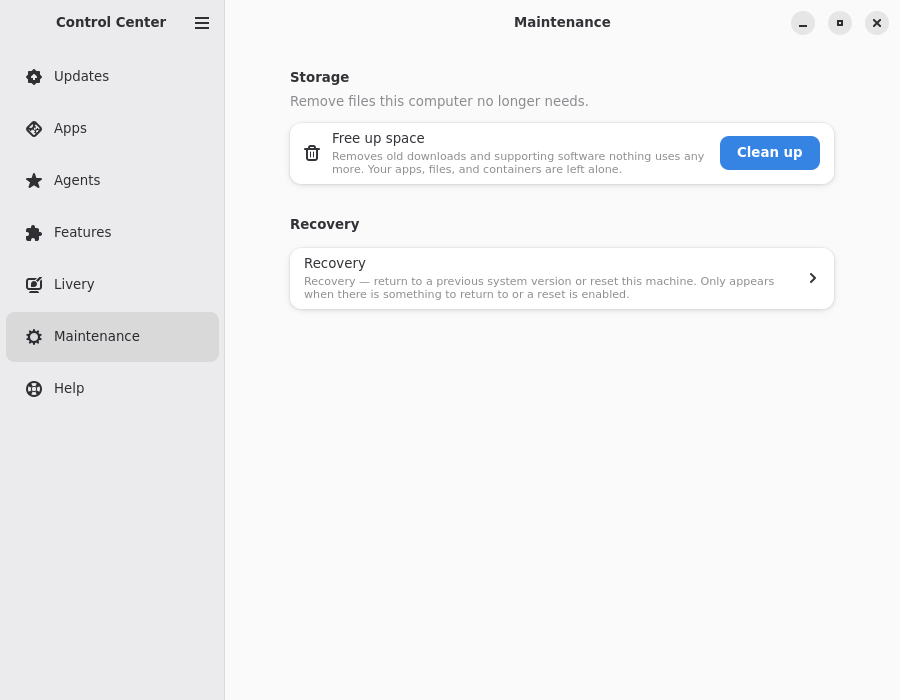
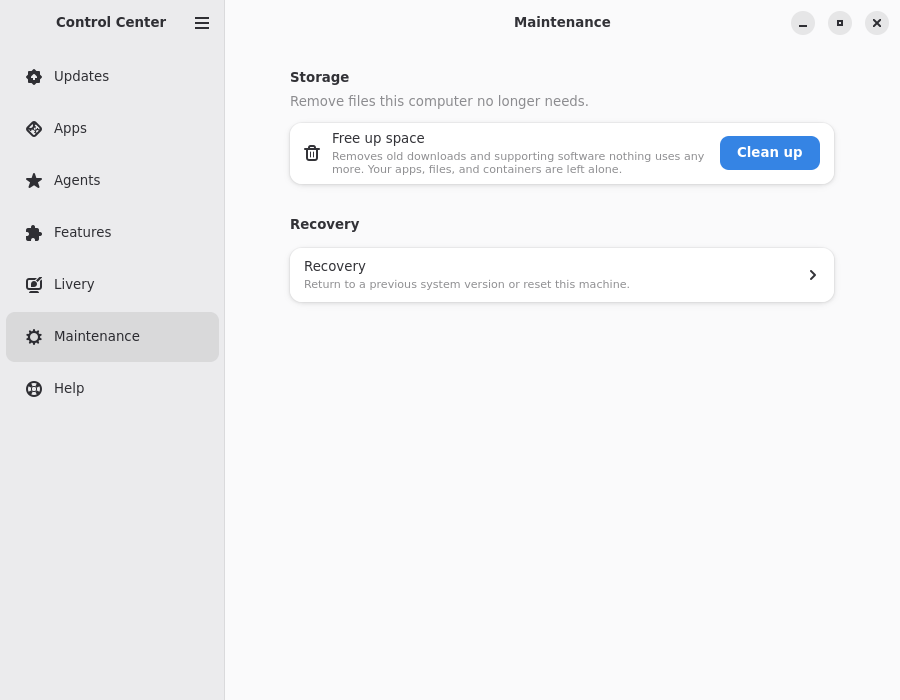
fix(views): apply audit findings for callbacks, accessibility, and copy
- Route Powerwash and Factory Reset dialogs through recoveryDialogs
- Keep Contribute button insensitive while session runs and reset gate on exit/error
- Add accessible labels for Flatpak uninstall and Recovery back buttons
- Set UseMarkup(false) on bundle rows before subtitle
- Update Livery switch titles and subtitles to match headings and use 'color'
- Capitalize 'Keyboard Shortcuts' and 'Main Menu' in update shell
- Shorten Recovery entry subtitle and remove leaked rendering logic
- Delete unused devtools WSL functions and PublishedVersion.Running
- Add unit tests for printerapp digestPart and defaultUnitDir

Assisted-by: Gemini 3.8 Flash via GitHub Copilot

Changed region(s): [[0.3422, 0.36, 0.84, 0.45]]

diff --git a/internal/views/pageview/livery_test.go b/internal/views/pageview/livery_test.go
@@ -36,6 +36,9 @@ func TestUnknownSelectionFallsBackToTheDefault(t *testing.T) {
 // Files mark is shared by every surface GNOME draws that application on, and
 // a subtitle mentioning only the dock would understate what the switch does.
 func TestAppGridTextCoversGNOMEAndPlasmaAvailability(t *testing.T) {
+	if got := LiveryAppGridRow().Title; got != "Customize the App Launcher Icon" {
+		t.Errorf("app-grid title = %q, want %q", got, "Customize the App Launcher Icon")
+	}
 	subtitle := strings.ToLower(LiveryAppGridRow().Subtitle)
 	for _, desktop := range []string{"gnome", "kickoff", "kde plasma"} {
 		if !strings.Contains(subtitle, desktop) {
@@ -51,6 +54,15 @@ func TestAppGridTextCoversGNOMEAndPlasmaAvailability(t *testing.T) {
 }
 
 func TestDockRowNamesItsFullReach(t *testing.T) {
+	if got := LiveryPanelRow().Title; got != "Customize the Top Bar Icon" {
+		t.Errorf("panel title = %q, want %q", got, "Customize the Top Bar Icon")
+	}
+	if strings.Contains(LiveryPanelRow().Subtitle, "colour") {
+		t.Errorf("panel subtitle contains British spelling 'colour': %q", LiveryPanelRow().Subtitle)
+	}
+	if strings.Contains(LiveryDockRow().Subtitle, "colour") {
+		t.Errorf("dock subtitle contains British spelling 'colour': %q", LiveryDockRow().Subtitle)
+	}
 	subtitle := strings.ToLower(LiveryDockRow().Subtitle)
 	for _, surface := range []string{"dock", "app grid", "window switcher"} {
 		if !strings.Contains(subtitle, surface) {

diff --git a/internal/views/pageview/versions_test.go b/internal/views/pageview/versions_test.go
@@ -38,7 +38,7 @@ func TestPublishedVersionsListsOneRowPerDayOfTheRunningStream(t *testing.T) {
 	want := []PublishedVersion{
 		{Row: Row{Title: "22 September 2026", Subtitle: "Published as stable-20260922"}, Day: "20260922"},
 		{Row: Row{Title: "15 September 2026", Subtitle: "Published as stable-20260915"}, Day: "20260915"},
-		{Row: Row{Title: "8 September 2026", Subtitle: "Running now · Published as stable-20260908"}, Day: "20260908", Running: true},
+		{Row: Row{Title: "8 September 2026", Subtitle: "Running now · Published as stable-20260908"}, Day: "20260908"},
 		{Row: Row{Title: "1 September 2026", Subtitle: "Your previous version · Published as stable-20260901"}, Day: "20260901"},
 	}
 	if len(got) != len(want) {
@@ -54,7 +54,7 @@ func TestPublishedVersionsListsOneRowPerDayOfTheRunningStream(t *testing.T) {
 func TestPublishedVersionsMarksNothingForAnUnreadableVersion(t *testing.T) {
 	builds := registrytags.Builds([]string{"stable-20260908"}, time.Time{})
 	got := PublishedVersions(builds, "stable", "", "not-a-build")
-	if len(got) != 1 || got[0].Subtitle != "Published as stable-20260908" || got[0].Day != "20260908" || got[0].Running {
+	if len(got) != 1 || got[0].Subtitle != "Published as stable-20260908" || got[0].Day != "20260908" {
 		t.Errorf("PublishedVersions() = %#v, want one unmarked row", got)
 	}
 }

diff --git a/internal/views/pageview/livery.go b/internal/views/pageview/livery.go
@@ -200,7 +200,7 @@ func LiveryIDForIndex(index uint) string {
 // The same honesty the Files row owes, for the same reason.
 func LiveryAppGridRow() Row {
 	return Row{
-		Title:    "Customize the App Grid Icon",
+		Title:    "Customize the App Launcher Icon",
 		Subtitle: "Replaces the Show Applications glyph on GNOME or the Kickoff icon on KDE Plasma",
 	}
 }
@@ -218,7 +218,7 @@ func LiveryAppGridGroupDescription(available bool) string {
 // Custom Command Menu extension never shows the section, so there is no
 // unavailable variant.
 func LiveryPanelRow() Row {
-	return Row{Title: "Customize the Panel Icon", Subtitle: "Replaces the top-bar menu button, in your theme's colour"}
+	return Row{Title: "Customize the Top Bar Icon", Subtitle: "Replaces the top-bar menu button, in your theme's color"}
 }
 
 // LiveryDockRow is the dock section's switch row text.
@@ -230,7 +230,7 @@ func LiveryPanelRow() Row {
 func LiveryDockRow() Row {
 	return Row{
 		Title:    "Customize the Files Icon",
-		Subtitle: "Replaces the Files icon in full colour — on the dock, in the app grid, and in the window switcher",
+		Subtitle: "Replaces the Files icon in full color — on the dock, in the app grid, and in the window switcher",
 	}
 }
 

diff --git a/internal/views/reset.go b/internal/views/reset.go
@@ -104,14 +104,13 @@ func (uh *UserHome) onPowerwashClicked(button *gtk.Button, row *adw.ActionRow) {
 	dialog.AddResponse("confirm", "Remove Everything")
 	dialog.SetResponseAppearance("confirm", adw.ResponseDestructiveValue)
 
-	responseCb := func(_ adw.AlertDialog, response string) {
+	uh.recoveryDialogs.connect(dialog, func(response string) {
 		if response != "confirm" {
 			uh.powerwashGate.Reset()
 			return
 		}
 		uh.runPowerwash(button, row)
-	}
-	dialog.ConnectResponse(&responseCb)
+	})
 	dialog.Present(&uh.recoveryPrefsPage.Widget)
 }
 
@@ -166,14 +165,13 @@ func (uh *UserHome) onFactoryResetClicked(button *gtk.Button, row *adw.ActionRow
 	dialog.AddResponse("confirm", "Factory Reset")
 	dialog.SetResponseAppearance("confirm", adw.ResponseDestructiveValue)
 
-	responseCb := func(_ adw.AlertDialog, response string) {
+	uh.recoveryDialogs.connect(dialog, func(response string) {
 		if response != "confirm" {
 			uh.factoryResetGate.Reset()
 			return
 		}
 		uh.runFactoryReset(button, row)
-	}
-	dialog.ConnectResponse(&responseCb)
+	})
 	dialog.Present(&uh.recoveryPrefsPage.Widget)
 }
 

diff --git a/internal/printerapp/printerapp_test.go b/internal/printerapp/printerapp_test.go
@@ -468,6 +468,38 @@ func TestApplyOverridesRejectsBadInput(t *testing.T) {
 	}
 }
 
+func TestDigestPartExtractsDigest(t *testing.T) {
+	tests := []struct {
+		image string
+		want  string
+	}{
+		{"ghcr.io/org/repo@sha256:abcdef1234567890", "sha256:abcdef1234567890"},
+		{"ghcr.io/org/repo:v1.0.0", ""},
+		{"ghcr.io/org/repo", ""},
+		{"", ""},
+	}
+	for _, tc := range tests {
+		if got := digestPart(tc.image); got != tc.want {
+			t.Errorf("digestPart(%q) = %q, want %q", tc.image, got, tc.want)
+		}
+	}
+}
+
+func TestDefaultUnitDirReturnsPathUnderUserConfig(t *testing.T) {
+	configDir, err := os.UserConfigDir()
+	if err != nil {
+		t.Skipf("cannot determine UserConfigDir: %v", err)
+	}
+	got, err := defaultUnitDir()
+	if err != nil {
+		t.Fatalf("defaultUnitDir() error: %v", err)
+	}
+	want := filepath.Join(configDir, "containers", "systemd")
+	if got != want {
+		t.Errorf("defaultUnitDir() = %q, want %q", got, want)
+	}
+}
+
 // isSHA256Digest reports whether d is a well-formed "sha256:<64 hex>" OCI
 // manifest index digest.
 func isSHA256Digest(d string) bool {

diff --git a/internal/views/applications_page.go b/internal/views/applications_page.go
@@ -216,6 +216,7 @@ func newBundleRow(bundle homebrew.Bundle) (*adw.ActionRow, *gtk.Button, *gtk.Pro
 	collection := bundleview.Describe(bundle.Name, bundle.Description, bundle.ItemCount)
 	row := adw.NewActionRow()
 	row.SetTitle(collection.Title)
+	row.SetUseMarkup(false)
 	row.SetSubtitle(collection.Subtitle)
 
 	installBtn := gtk.NewButtonWithLabel("Install")
@@ -634,9 +635,13 @@ func (uh *UserHome) loadFlatpakApplications() {
 			uninstallBtn.SetValign(gtk.AlignCenterValue)
 			uninstallBtn.AddCssClass("destructive-action")
 			if isUser {
-				uninstallBtn.SetTooltipText("Remove this app from your account")
+				tooltip := "Remove this app from your account"
+				uninstallBtn.SetTooltipText(tooltip)
+				SetAccessibleLabel(uninstallBtn, tooltip)
 			} else {
-				uninstallBtn.SetTooltipText("Remove for everyone — asks for your admin password")
+				tooltip := "Remove for everyone — asks for your admin password"
+				uninstallBtn.SetTooltipText(tooltip)
+				SetAccessibleLabel(uninstallBtn, tooltip)
 			}
 
 			appID := app.ApplicationID

diff --git a/internal/devtools/devtools.go b/internal/devtools/devtools.go
@@ -70,14 +70,6 @@ func NSLHostSupported() bool {
 	return runtime.GOOS == "linux" && runtime.GOARCH == "amd64"
 }
 
-// WSLHostSupported reports whether this host architecture can run the selected backend.
-func WSLHostSupported(backend string) bool {
-	if backend == BackendLima {
-		return HostSupported()
-	}
-	return NSLHostSupported()
-}
-
 // NSLInstalled reports whether the nsl binary is found on PATH or Homebrew bin.
 func NSLInstalled() bool {
 	return executable("nsl") != ""
@@ -86,14 +78,6 @@ func NSLInstalled() bool {
 // LimaInstalled reports whether the limactl binary is found on PATH or Homebrew bin.
 func LimaInstalled() bool {
 	return executable("limactl") != ""
-}
-
-// WSLInstalled reports whether the binary for the chosen backend is installed.
-func WSLInstalled(backend string) bool {
-	if backend == BackendLima {
-		return LimaInstalled()
-	}
-	return NSLInstalled()
 }
 
 func (t Tool) Supported() bool {

diff --git a/internal/views/contribute.go b/internal/views/contribute.go
@@ -78,18 +78,28 @@ func (uh *UserHome) onContributeClicked() {
 		return
 	}
 
+	if uh.contributeButton != nil {
+		uh.contributeButton.SetSensitive(false)
+	}
+
 	cmd := contribute.Command("", "", "")
 	err := launcher.Start(cmd, func(exitErr error) {
 		sgtk.RunOnMainThread(func() {
 			uh.contributeGate.Reset()
+			if uh.contributeButton != nil {
+				uh.contributeButton.SetSensitive(true)
+			}
 			if exitErr != nil {
 				log.Printf("views: contribute session exited with error: %v", exitErr)
 				uh.toastAdder.ShowErrorToast("Contribute session exited with an error.")
 			}
 		})
 	})
-	uh.contributeGate.Reset()
 	if err != nil {
+		uh.contributeGate.Reset()
+		if uh.contributeButton != nil {
+			uh.contributeButton.SetSensitive(true)
+		}
 		log.Printf("views: launch contribute failed: %v", err)
 		uh.toastAdder.ShowErrorToast("Could not launch Contribute to Bluefin.")
 	}

diff --git a/internal/views/update_shell.go b/internal/views/update_shell.go
@@ -553,14 +553,14 @@ func (s *UpdateShell) build() {
 
 	menu := gio.NewMenu()
 	menu.Append("Preferences", commands.PreferencesAction)
-	menu.Append("Keyboard shortcuts", commands.ShowShortcutsAction)
+	menu.Append("Keyboard Shortcuts", commands.ShowShortcutsAction)
 	menu.Append("Help", commands.HelpAction)
 	menu.Append("About "+branding.AppName, commands.ShowAboutAction)
 	menu.Append("Quit", commands.QuitAction)
 	menuButton := gtk.NewMenuButton()
 	menuButton.SetIconName("open-menu-symbolic")
-	menuButton.SetTooltipText("Main menu")
-	SetAccessibleLabel(menuButton, "Main menu")
+	menuButton.SetTooltipText("Main Menu")
+	SetAccessibleLabel(menuButton, "Main Menu")
 	menuButton.SetMenuModel(&menu.MenuModel)
 	header.PackEnd(&menuButton.Widget)
 	s.toolbarView.AddTopBar(&header.Widget)

diff --git a/internal/views/pageview/versions.go b/internal/views/pageview/versions.go
@@ -51,8 +51,7 @@ func PublishedVersionsSummary(count int, stream string) string {
 // page's Published versions list.
 type PublishedVersion struct {
 	Row
-	Day     string
-	Running bool
+	Day string
 }
 
 // PublishedVersions returns one row per day the registry lists a build of
@@ -91,8 +90,7 @@ func PublishedVersions(builds []registrytags.Build, stream, running, previous st
 				Title:    build.Date.Format("2 January 2006"),
 				Subtitle: subtitle,
 			},
-			Day:     build.Date.Format("20060102"),
-			Running: runningNow,
+			Day: build.Date.Format("20060102"),
 		})
 	}
 	return rows

diff --git a/internal/devtools/devtools_test.go b/internal/devtools/devtools_test.go
@@ -376,17 +376,6 @@ func TestNSLDryRunWritesNoVM(t *testing.T) {
 	}
 }
 
-func TestWSLHostSupportedCheck(t *testing.T) {
-	// Lima supports amd64 or arm64
-	if !WSLHostSupported(BackendLima) && HostSupported() {
-		t.Errorf("WSLHostSupported(lima) = false on supported host")
-	}
-	// NSL supports amd64 only
-	if WSLHostSupported(BackendNSL) != NSLHostSupported() {
-		t.Errorf("WSLHostSupported(nsl) mismatch with NSLHostSupported")
-	}
-}
-
 func TestResolveBackendFollowsAnExistingMachine(t *testing.T) {
 	for _, tc := range []struct {
 		configured        string

diff --git a/internal/views/pageview/recovery_test.go b/internal/views/pageview/recovery_test.go
@@ -24,8 +24,9 @@ func TestRecoveryEntrySubtitlePointsAtDetailView(t *testing.T) {
 	if sub == "" {
 		t.Fatal("RecoveryEntrySubtitle() is empty")
 	}
-	if !strings.Contains(sub, "Recovery") || !strings.Contains(sub, "appears") {
-		t.Errorf("RecoveryEntrySubtitle() = %q, want it to name the Recovery detail and that it is conditional", sub)
+	want := "Return to a previous system version or reset this machine."
+	if sub != want {
+		t.Errorf("RecoveryEntrySubtitle() = %q, want %q", sub, want)
 	}
 }
 
